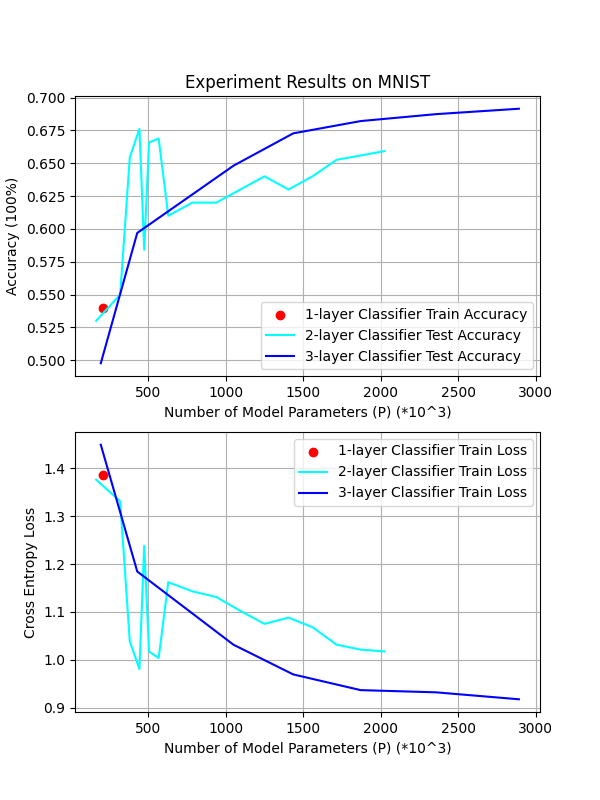
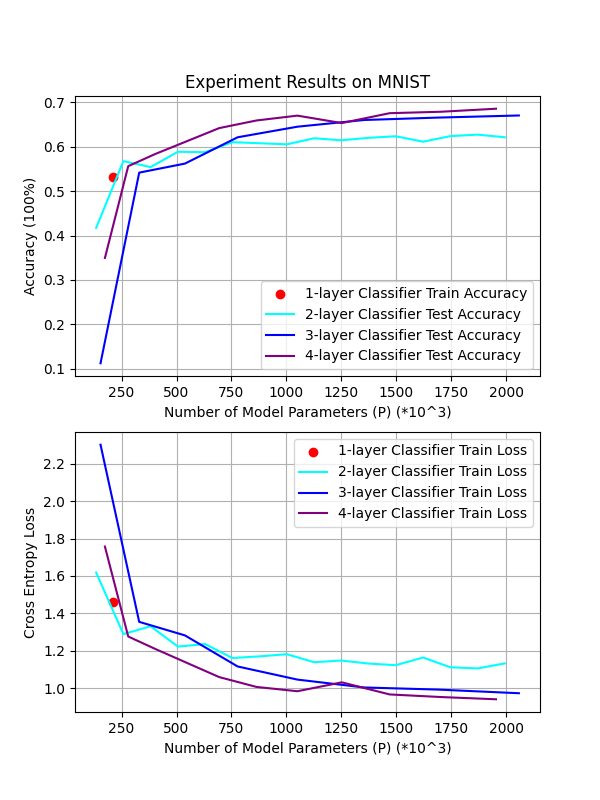
Seperate Layer Test

diff --git a/seperate_layer_test.py b/seperate_layer_test.py
@@ -7,7 +7,7 @@ import seperate_layers
 
 import matplotlib.pyplot as plt
 
-epochs = 1000
+epochs = 400
 
 def train_and_evaluate_model(representation_layer, classifier, device,
                              train_dataloader, test_dataloader, optimizer, criterion):
@@ -83,6 +83,7 @@ if __name__ == '__main__':
     representation_layer = seperate_layers.Representation_Layer(20)
     representation_layer.to(device)
 
+    '''
     # Setup Dictionary
     dictionary = {'Layers': 0, 'Parameters': 0, 'Train Loss': 0, 'Train Accuracy': 0,
                   'Test Loss': 0, 'Test Accuracy': 0, 'N1': 0, 'N2': 0, 'N3': 0}
@@ -90,7 +91,6 @@ if __name__ == '__main__':
     with open('seperate_layers_test.csv', "a", newline="") as fp:
         writer = csv.DictWriter(fp, fieldnames=dictionary.keys())
         writer.writeheader()
-
 
     # One Layer Classifier
     one_layer_classifier = seperate_layers.One_Layer_Classifier(20)
@@ -108,8 +108,8 @@ if __name__ == '__main__':
                                                                           train_dataloader, test_dataloader,
                                                                           optimizer, criterion)
 
-    print('\nOne_Layer_Classifier - Parameters = %d ; Train Loss = %.3f, Train Accuracy = %.2f ; '
-          'Test Loss = %.3f, Test Accuracy = %.2f' % (parameters, train_loss, train_acc, test_loss, test_acc))
+    print('One_Layer_Classifier - Parameters = %d ; Train Loss = %.3f, Train Accuracy = %.2f ; '
+          'Test Loss = %.3f, Test Accuracy = %.2f\n' % (parameters, train_loss, train_acc, test_loss, test_acc))
 
     dictionary = {'Layers': 1, 'Parameters': parameters, 'Train Loss': train_loss, 'Train Accuracy': train_acc,
                   'Test Loss': test_loss, 'Test Accuracy': test_acc, 'N1': 20, 'N2': 0, 'N3': 0}
@@ -175,9 +175,39 @@ if __name__ == '__main__':
         with open('seperate_layers_test.csv', "a", newline="") as fp:
             writer = csv.DictWriter(fp, fieldnames=dictionary.keys())
             writer.writerow(dictionary)
+    '''
+
+    # Four Layer Classifier
+    for n2 in [18, 20, 22, 24]:
+        n4 = n3 = n2
+
+        four_layer_classifier = seperate_layers.Four_Layer_Classifier(20, n2, n3, n4)
+        four_layer_classifier.to(device)
+        parameters = sum(p.numel() for p in four_layer_classifier.parameters())
+
+        # Set the optimizer and criterion
+        optimizer = torch.optim.SGD(four_layer_classifier.parameters(), lr=0.01)
+        criterion = torch.nn.CrossEntropyLoss()
+        criterion = criterion.to(device)
+
+        # Train and evaluate the model
+        train_loss, train_acc, test_loss, test_acc = train_and_evaluate_model(representation_layer,
+                                                                              four_layer_classifier, device,
+                                                                              train_dataloader, test_dataloader,
+                                                                              optimizer, criterion)
+
+        print('Four_Layer_Classifier - Parameters = %d ; Train Loss = %.3f, Train Accuracy = %.2f ; '
+              'Test Loss = %.3f, Test Accuracy = %.2f\n' % (parameters, train_loss, train_acc, test_loss, test_acc))
+
+        dictionary = {'Layers': 4, 'Parameters': parameters, 'Train Loss': train_loss, 'Train Accuracy': train_acc,
+                      'Test Loss': test_loss, 'Test Accuracy': test_acc, 'N1': 20, 'N2': n2, 'N3': n3}
+
+        with open('seperate_layers_test.csv', "a", newline="") as fp:
+            writer = csv.DictWriter(fp, fieldnames=dictionary.keys())
+            writer.writerow(dictionary)
 
     test_result = []
-    for l in range(3):
+    for l in range(4):
         test_result.append({'Parameters' : [], 'Train Loss' : [], 'Train Accuracy' : [],
                                                 'Test Loss' : [], 'Test Accuracy' : []})
 
@@ -194,7 +224,6 @@ if __name__ == '__main__':
 
     print(test_result)
 
-
     # Plot the Diagram
     scale_function = (lambda x: x ** (1 / 4), lambda x: x ** 4)
 
@@ -204,19 +233,23 @@ if __name__ == '__main__':
     ax1.set_xlabel('Number of Model Parameters (P) (*10^3)')
     ax3.set_xlabel('Number of Model Parameters (P) (*10^3)')
 
-    ln1 = ax1.scatter(test_result[0]['Parameters'], test_result[0]['Train Accuracy'],
-                   label='1-layer Classifier Train Accuracy', color='red')
-    ln2 = ax1.plot(test_result[1]['Parameters'], test_result[1]['Train Accuracy'],
-                   label='2-layer Classifier Test Accuracy', color='cyan')
-    ln3 = ax1.plot(test_result[2]['Parameters'], test_result[2]['Train Accuracy'],
-                   label='3-layer Classifier Test Accuracy', color='blue')
+    ax1.scatter(test_result[0]['Parameters'], test_result[0]['Train Accuracy'],
+             label='1-layer Classifier Train Accuracy', color='red')
+    ax1.plot(test_result[1]['Parameters'], test_result[1]['Train Accuracy'],
+             label='2-layer Classifier Test Accuracy', color='cyan')
+    ax1.plot(test_result[2]['Parameters'], test_result[2]['Train Accuracy'],
+             label='3-layer Classifier Test Accuracy', color='blue')
+    ax1.plot(test_result[3]['Parameters'], test_result[3]['Train Accuracy'],
+             label='4-layer Classifier Test Accuracy', color='purple')
 
-    ln4 = ax3.scatter(test_result[0]['Parameters'], test_result[0]['Train Loss'],
-                   label='1-layer Classifier Train Loss', color='red')
-    ln5 = ax3.plot(test_result[1]['Parameters'], test_result[1]['Train Loss'],
-                   label='2-layer Classifier Train Loss', color='cyan')
-    ln6 = ax3.plot(test_result[2]['Parameters'], test_result[2]['Train Loss'],
-                   label='3-layer Classifier Train Loss', color='blue')
+    ax3.scatter(test_result[0]['Parameters'], test_result[0]['Train Loss'],
+             label='1-layer Classifier Train Loss', color='red')
+    ax3.plot(test_result[1]['Parameters'], test_result[1]['Train Loss'],
+             label='2-layer Classifier Train Loss', color='cyan')
+    ax3.plot(test_result[2]['Parameters'], test_result[2]['Train Loss'],
+             label='3-layer Classifier Train Loss', color='blue')
+    ax3.plot(test_result[3]['Parameters'], test_result[3]['Train Loss'],
+             label='4-layer Classifier Train Loss', color='purple')
 
     ax1.set_ylabel('Accuracy (100%)')
     ax3.set_ylabel('Cross Entropy Loss')

diff --git a/seperate_layers.py b/seperate_layers.py
@@ -82,3 +82,37 @@ class Three_Layer_Classifier(nn.Module):
         out = self.classifier(out)
 
         return out
+
+class Four_Layer_Classifier(nn.Module):
+    def __init__(self, n1, n2, n3, n4):
+        super(Four_Layer_Classifier, self).__init__()
+
+        self.n1 = n1
+        self.n2 = n2
+        self.n3 = n3
+        self.n4 = n4
+
+        self.layer_1 = nn.Sequential(
+            nn.Linear(n1, n2),
+            nn.ReLU()
+        )
+
+        self.layer_2 = nn.Sequential(
+            nn.Linear(n2, n3),
+            nn.ReLU()
+        )
+
+        self.layer_3 = nn.Sequential(
+            nn.Linear(n3, n4),
+            nn.ReLU()
+        )
+
+        self.classifier = nn.Linear(n4, 10)
+
+    def forward(self, x):
+        out = self.layer_1(x)
+        out = self.layer_2(out)
+        out = self.layer_3(out)
+        out = self.classifier(out)
+
+        return out
